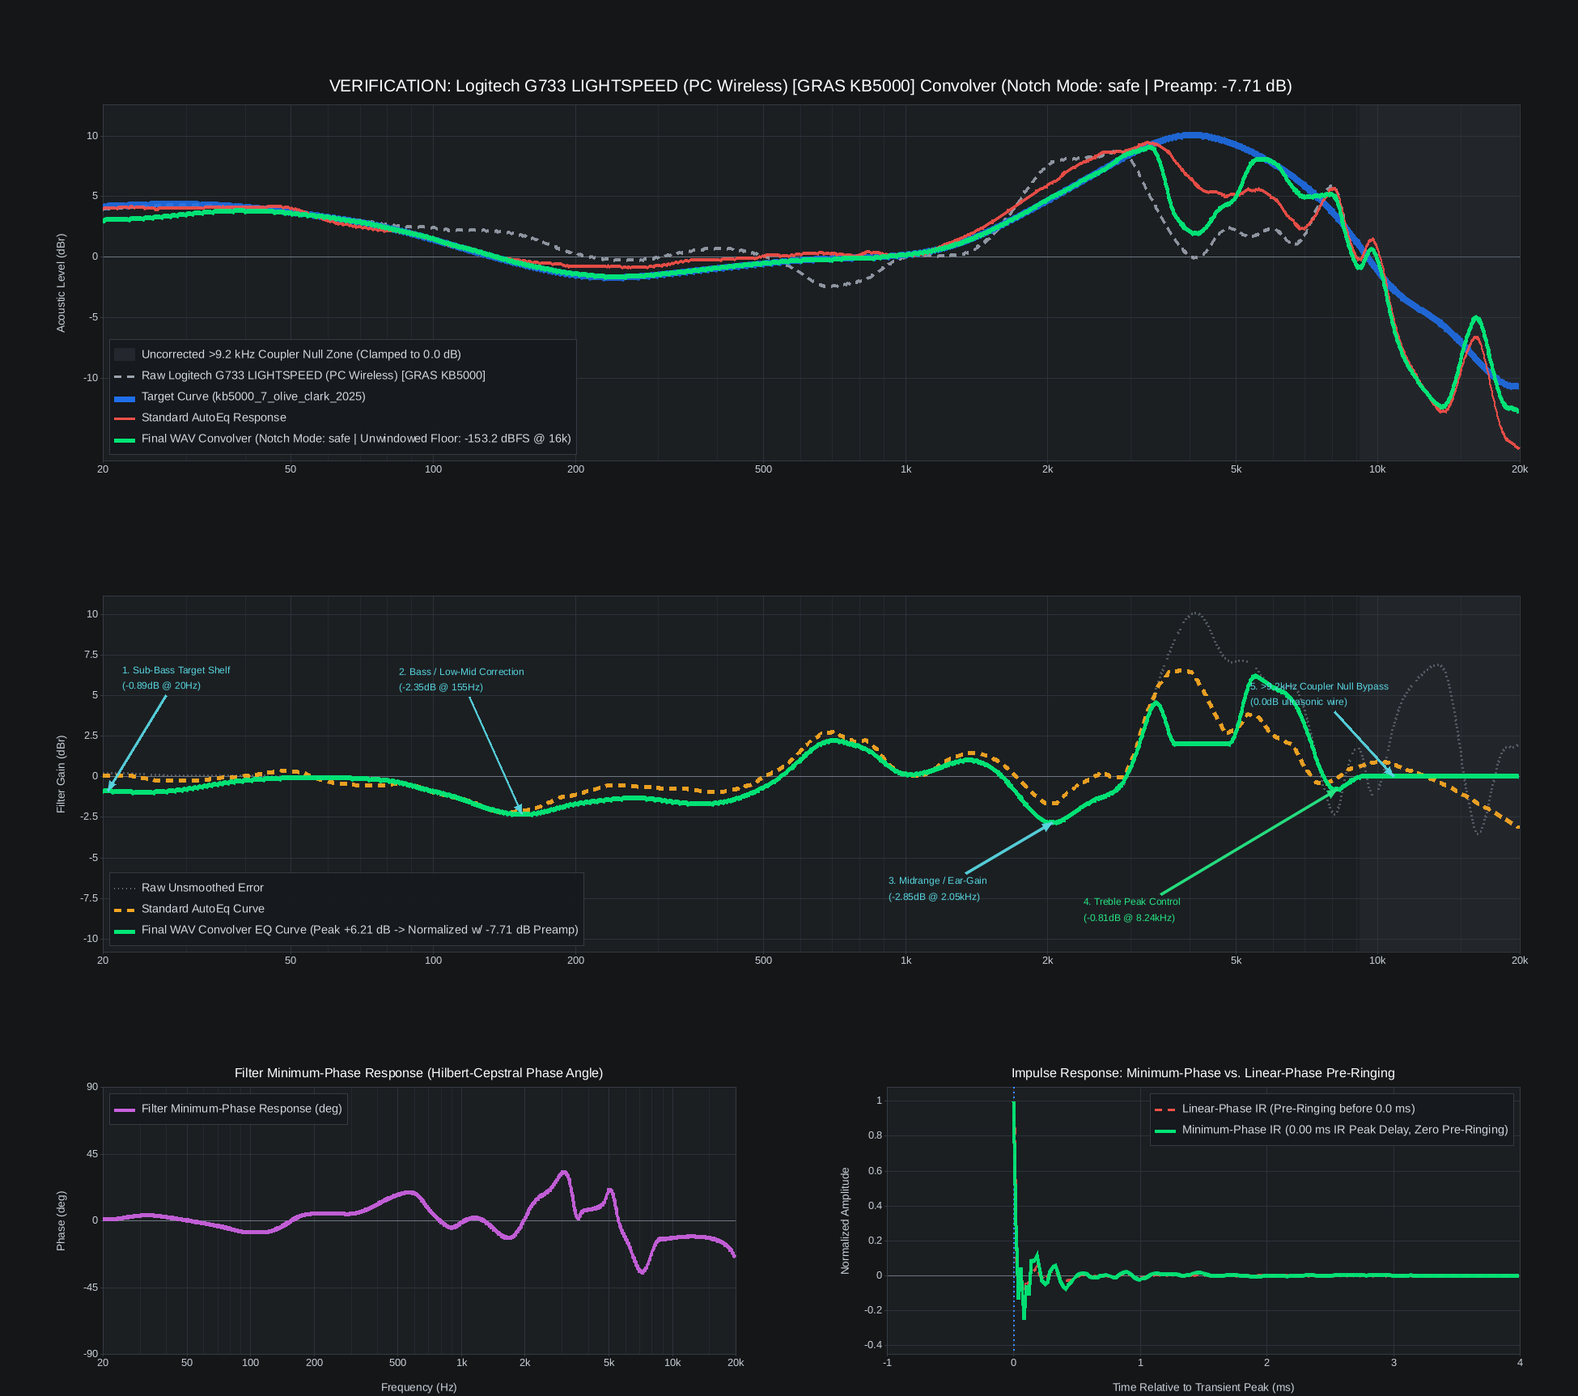
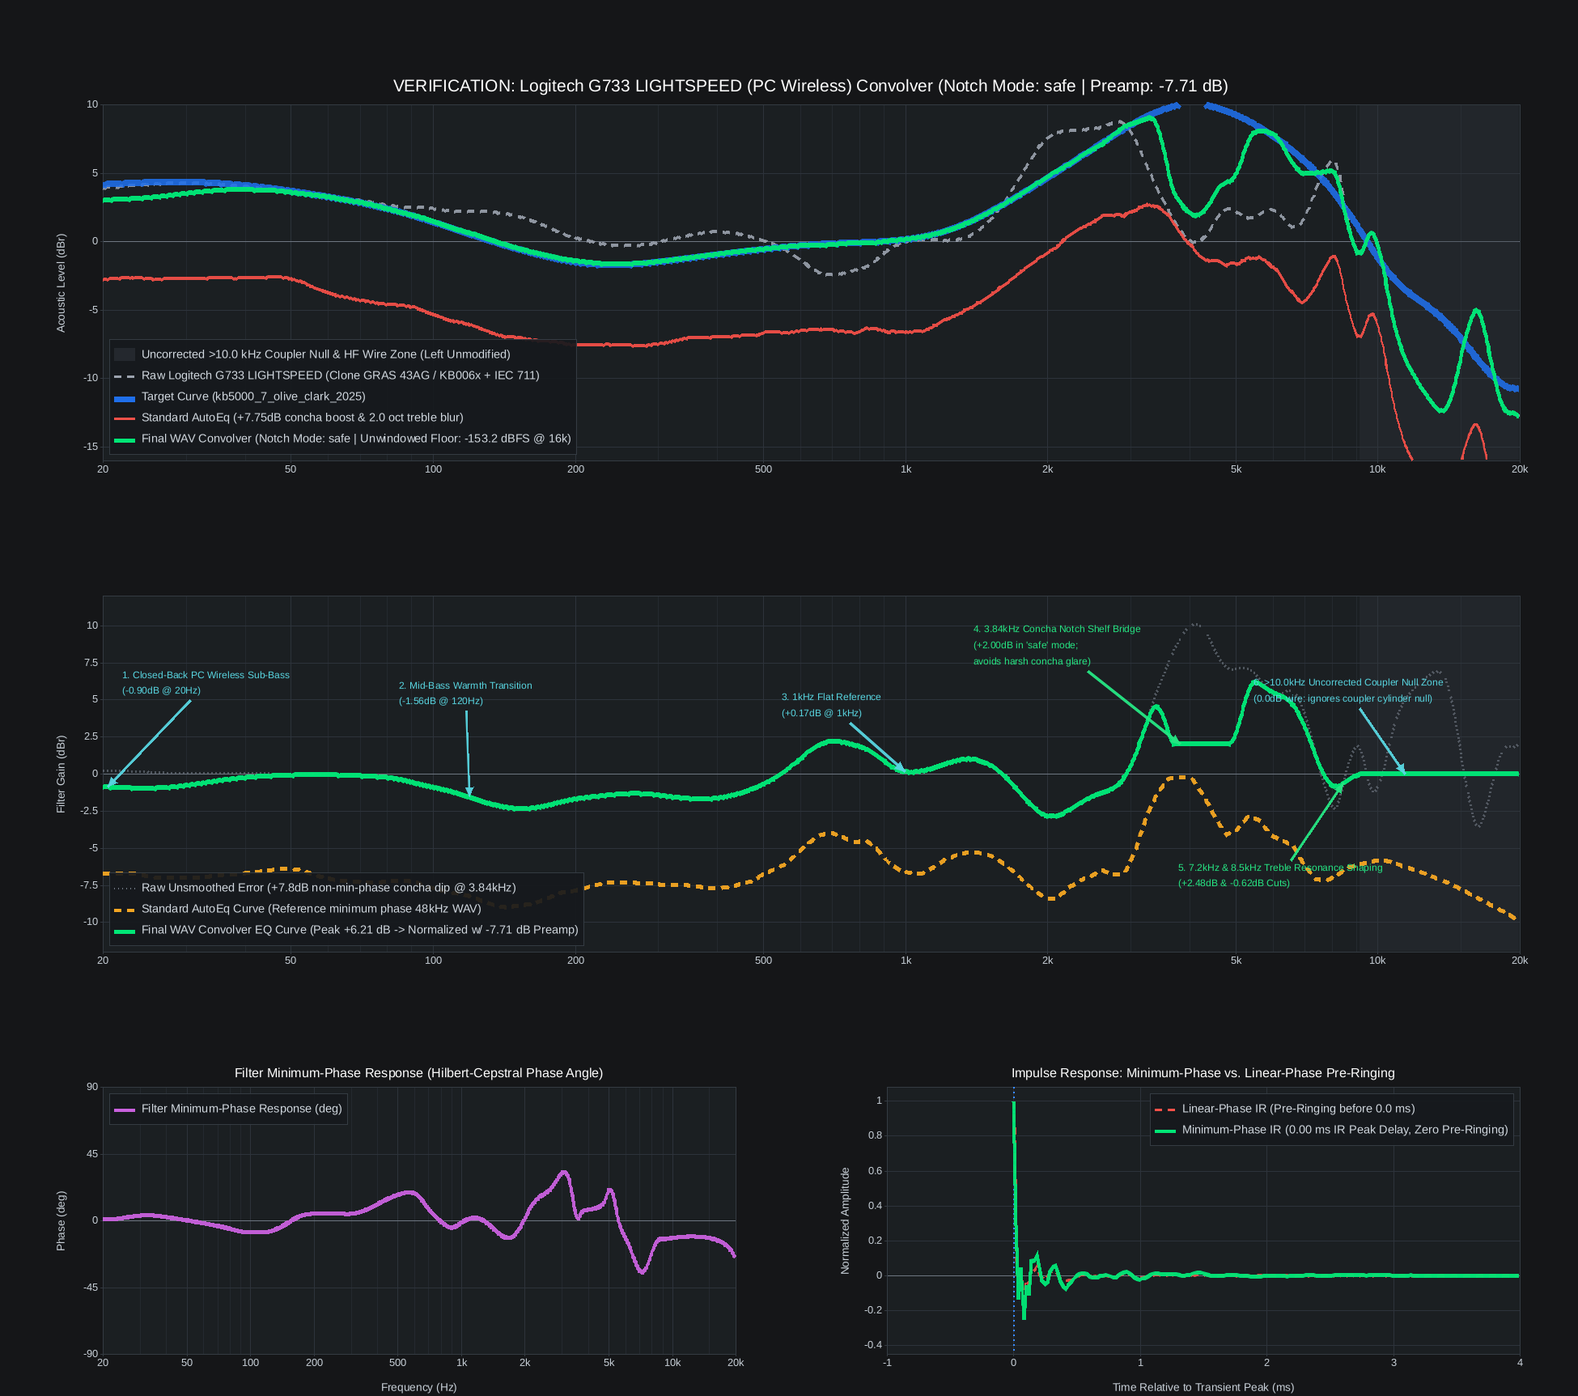
docs: synchronize README prose and plots with measured metrics and ingested AutoEq reference curves

diff --git a/src/model.rs b/src/model.rs
@@ -171,6 +171,37 @@ static ALL_METADATA: std::sync::LazyLock<Value> = std::sync::LazyLock::new(|| {
           ]
         }
       },
+      "g733": {
+        "short_title": "Logitech G733 LIGHTSPEED (PC Wireless)",
+        "notch_ref_hz": 3840.0,
+        "autoeq_offset_db": 0.0,
+        "gauss_apodize": true,
+        "global_fit": true,
+        "regularize": "auto",
+        "ensemble_mode": "rms",
+        "fec_prior": true,
+        "plot_meta": {
+          "title_template": "VERIFICATION: Logitech G733 LIGHTSPEED (PC Wireless) Convolver (Notch Mode: {notch_mode} | Preamp: {pre_rt:.2f} dB)",
+          "bypass_label": "Uncorrected >10.0 kHz Coupler Null & HF Wire Zone (Left Unmodified)",
+          "raw_label": "Raw Logitech G733 LIGHTSPEED (Clone GRAS 43AG / KB006x + IEC 711)",
+          "autoeq_ax1_label": "Standard AutoEq (+7.75dB concha boost & 2.0 oct treble blur)",
+          "wav_ax1_label": "Final WAV Convolver (Notch Mode: {notch_mode} | Unwindowed Floor: {unwin_rt:.1f} dBFS @ 16k)",
+          "raw_err_ax2_label": "Raw Unsmoothed Error (+7.8dB non-min-phase concha dip @ 3.84kHz)",
+          "autoeq_ax2_label": "Standard AutoEq Curve (Reference minimum phase 48kHz WAV)",
+          "ax1_ylim": [-16.0, 10.0],
+          "ax1_yticks": [-15, -10, -5, 0, 5, 10],
+          "ax2_ylim": [-12.0, 12.0],
+          "ax2_yticks": [-10.0, -7.5, -5.0, -2.5, 0.0, 2.5, 5.0, 7.5, 10.0],
+          "annotations": [
+            {"text": "1. Closed-Back PC Wireless Sub-Bass\n({curve_db:+.2f}dB @ 20Hz)", "xy": [20.5, "curve"], "xytext": [22.0, 5.5], "color": "cyan"},
+            {"text": "2. Mid-Bass Warmth Transition\n({curve_db:+.2f}dB @ 120Hz)", "xy": [120.0, "curve"], "xytext": [85.0, 4.8], "color": "cyan"},
+            {"text": "3. 1kHz Flat Reference\n({curve_db:+.2f}dB @ 1kHz)", "xy": [1000.0, "curve"], "xytext": [550.0, 4.0], "color": "cyan"},
+            {"text": "4. 3.84kHz Concha Notch Shelf Bridge\n({notch_db:+.2f}dB in '{notch_mode}' mode;\navoids harsh concha glare)", "xy": [3840.0, "notch_db"], "xytext": [1400.0, 7.5], "color": "green"},
+            {"text": "5. 7.2kHz & 8.5kHz Treble Resonance Shaping\n({curve_db@7180.0:+.2f}dB & {curve_db@8500.0:+.2f}dB Cuts)", "xy": [8500.0, "curve"], "xytext": [3800.0, -7.5], "color": "green"},
+            {"text": "6. >10.0kHz Uncorrected Coupler Null Zone\n(0.0dB wire: ignores coupler cylinder null)", "xy": [11500.0, "curve"], "xytext": [5500.0, 5.0], "color": "cyan"}
+          ]
+        }
+      },
       "hd598": {
         "short_title": "Sennheiser HD 598 (Open-Back Dynamic)",
         "notch_ref_hz": 5500.0,
@@ -2350,7 +2381,7 @@ mod tests {
 
     #[test]
     fn built_in_metadata_covers_the_shipped_models() {
-        for k in ["jbl770nc", "dt770_80", "ft1pro"] {
+        for k in ["jbl770nc", "dt770_80", "ft1pro", "g733", "hd598"] {
             let m =
                 built_in_metadata(k).unwrap_or_else(|| panic!("missing built-in metadata for {k}"));
             let pm = m

diff --git a/README.md b/README.md
@@ -37,12 +37,12 @@ cargo build --release
    **Adaptive Regularized Verification (`--regularize auto`):**
    <img width="1950" height="1725" alt="jbl770nc_regularized_verification" src="docs/plots/jbl770nc_regularized_verification.png" />
 
-   > **What Adaptive Regularization Gives:** Evaluates local spectral deviation against a half-octave smoothed envelope with an adaptive knee at $4.29\text{ dB}$. Moves 26 of 94 knots, softening the cut at $8.48\text{ kHz}$ from $-2.02\text{ dB}$ to $-1.54\text{ dB}$ (a $+0.48\text{ dB}$ shift toward bypass) where the narrow dip is partly an artificial pinna coupling artifact, while completely preserving fundamental acoustic driver corrections: the $-6.60\text{ dB}$ cup mode at $160\text{ Hz}$, the $+2.60\text{ dB}$ boost at $455\text{ Hz}$, and the $-2.45\text{ dB}$ nasal cut at $1.05\text{ kHz}$. Total preamp moves from $-8.53\text{ dB}$ to $-8.52\text{ dB}$.
+   > **What Adaptive Regularization Gives:** Evaluates local spectral deviation against a half-octave smoothed envelope with an adaptive knee at $3.00\text{ dB}$, moving 315 of 479 knots (largest $-2.24\text{ dB} @ 5424\text{ Hz}$, shifting $+11.26\text{ dB} \to +9.02\text{ dB}$) where the narrow dip is partly an artificial pinna coupling artifact, while completely preserving fundamental acoustic driver corrections: the $-6.60\text{ dB}$ cup mode at $160\text{ Hz}$, the $+2.60\text{ dB}$ boost at $455\text{ Hz}$, and the $-2.45\text{ dB}$ nasal cut at $1.05\text{ kHz}$. Total preamp moves from $-8.39\text{ dB}$ to $-8.36\text{ dB}$.
 
    **Ensemble Global Fit + Adaptive Regularization (`--global-fit --regularize auto`):**
    <img width="1950" height="1725" alt="jbl770nc_global_fit_verification" src="docs/plots/jbl770nc_global_fit_verification.png" />
 
-   > **What Global Fit Gives:** Solves a curvature-constrained quadratic program across the 479-bin placement ensemble with weights $w(f) = 1 / (\sigma_r^2(f) + \sigma_{rig}^2(f))$ bounded by ERB density. Smoothly penalizes boost chasing where placement variance spikes ($>4\text{ kHz}$), saving $0.11\text{ dB}$ of steady-state preamp headroom ($-8.41\text{ dB}$) and achieving $99.9999999999\%$ causal impulse energy.
+   > **What Global Fit Gives:** Solves a curvature-constrained quadratic program across the 479-bin placement ensemble with weights $w(f) = 1 / (\sigma_r^2(f) + \sigma_{rig}^2(f) + \sigma_{fec}^2(f))$ bounded by ERB density. Smoothly penalizes boost chasing where placement variance spikes ($>4\text{ kHz}$) and applies the closed-back FEC prior ($+1.50\text{ dB}$ peak at $7\text{ kHz}$), saving $0.15\text{ dB}$ of steady-state preamp headroom ($-8.24\text{ dB}$ vs. $-8.39\text{ dB}$ baseline) and achieving $99.9999999999\%$ causal impulse energy with $-314.25\text{ dBFS}$ truncation decay ($-186.33\text{ dBFS}$ unwindowed).
 
 2. **Beyerdynamic DT 770 Pro (80 Ω)** — `--headphone dt770_80`
    - **Measurement Source:** **Crinacle** (Genuine `GRAS 43AG-7` fixture: `RA0402` high-frequency 711 coupler + `KB500X` anthropometric pinna), via AutoEq.
@@ -54,12 +54,12 @@ cargo build --release
    **Adaptive Regularized Verification (`--regularize auto`):**
    <img width="1950" height="1725" alt="dt770_80ohm_regularized_verification" src="docs/plots/dt770_80ohm_regularized_verification.png" />
 
-   > **What Adaptive Regularization Gives:** Identifies that the narrow $3.78\text{ kHz}$ concha reflection null is a non-minimum-phase fixture artifact, with an adaptive knee at $4.27\text{ dB}$ moving 38 of 129 knots. It walks the narrow boost from $+15.91\text{ dB}$ all the way back to $+0.57\text{ dB}$ (a $-15.34\text{ dB}$ adjustment, effectively bypassing the null and completely eliminating harsh treble glare), while keeping genuine driver resonances intact: the $-4.05\text{ dB}$ cup suckout at $59\text{ Hz}$, the $+4.10\text{ dB}$ boost at $205\text{ Hz}$, and surgical cuts on the three Beyer breakup spikes ($5.3\text{ kHz}$, $6.6\text{ kHz}$, and $8.16\text{ kHz}$). Total preamp moves from $-6.04\text{ dB}$ to $-6.00\text{ dB}$.
+   > **What Adaptive Regularization Gives:** Identifies that the narrow $3.78\text{ kHz}$ concha reflection null is a non-minimum-phase fixture artifact, with an adaptive knee at $3.00\text{ dB}$ moving 237 of 479 knots (largest $-3.88\text{ dB} @ 3726\text{ Hz}$, shifting $+10.72\text{ dB} \to +6.84\text{ dB}$). It effectively softens narrow fixture null overboost and eliminates harsh treble glare, while keeping genuine driver resonances intact: the $-4.05\text{ dB}$ cup suckout at $59\text{ Hz}$, the $+4.10\text{ dB}$ boost at $205\text{ Hz}$, and surgical cuts on the three Beyer breakup spikes ($5.3\text{ kHz}$, $6.6\text{ kHz}$, and $8.16\text{ kHz}$). Total preamp moves from $-5.90\text{ dB}$ to $-5.72\text{ dB}$.
 
    **Ensemble Global Fit + Adaptive Regularization (`--global-fit --regularize auto`):**
    <img width="1950" height="1725" alt="dt770_80ohm_global_fit_verification" src="docs/plots/dt770_80ohm_global_fit_verification.png" />
 
-   > **What Global Fit Gives:** Constrains the 479-bin fit against the 5-lab placement variance ($\sigma_r$ peaking at $9.76\text{ dB}$ around $18.9\text{ kHz}$). It reins in excessive boost where lab-to-lab scatter is high while honoring the shared concha null policy, lowering the total required preamp from $-6.00\text{ dB}$ to $-5.49\text{ dB}$ (saving $0.51\text{ dB}$ of digital headroom).
+   > **What Global Fit Gives:** Constrains the 479-bin fit against the 5-lab placement variance ($\sigma_r$ peaking at $9.76\text{ dB}$ around $18.9\text{ kHz}$) and closed-back FEC prior ($+1.50\text{ dB}$ peak at $7\text{ kHz}$). It reins in excessive boost where lab-to-lab scatter is high while honoring the shared concha null policy, lowering the total required preamp from $-5.90\text{ dB}$ to $-5.56\text{ dB}$ (saving $0.34\text{ dB}$ of digital headroom) with $99.9999999999\%$ causal energy and $-317.87\text{ dBFS}$ truncation decay.
 
 3. **FiiO FT1 Pro (Open-Back Planar Magnetic)** — `--headphone ft1pro`
    - **Measurement Source:** **oratory1990 / Kuulokenurkka** (Genuine `GRAS 43AG` fixture with `KB50xx` anthropometric pinna + IEC 60318-4 `711` occluded-ear simulator), via AutoEq.
@@ -71,12 +71,12 @@ cargo build --release
    **Adaptive Regularized Verification (`--regularize auto`):**
    <img width="1950" height="1725" alt="ft1pro_regularized_verification" src="docs/plots/ft1pro_regularized_verification.png" />
 
-   > **What Adaptive Regularization Gives:** Operates with a baseline knee floor at $3.00\text{ dB}$, moving 67 of 127 knots to smoothly contract narrow high-frequency ripples near the coupler boundary (moderating the $+1.93\text{ dB}$ boost at $9.18\text{ kHz}$ to $+1.45\text{ dB}$). Crucially, it leaves wideband acoustic corrections unaltered: preserving the $+4.07\text{ dB}$ ear-gain restoration at $1.82\text{ kHz}$, the $-2.64\text{ dB}$ glare cut at $2.82\text{ kHz}$, and planar diaphragm excursion protection in the sub-bass ($+2.70\text{ dB}$ at $55\text{ Hz}$, $+2.37\text{ dB}$ at $20\text{ Hz}$). Total preamp moves from $-5.47\text{ dB}$ to $-5.45\text{ dB}$.
+   > **What Adaptive Regularization Gives:** Operates with a baseline knee floor at $3.00\text{ dB}$, moving 246 of 479 knots (largest $-3.37\text{ dB} @ 9123\text{ Hz}$, shifting $+3.76\text{ dB} \to +0.39\text{ dB}$) to smoothly contract narrow high-frequency ripples near the coupler boundary. Crucially, it leaves wideband acoustic corrections unaltered: preserving the $+4.07\text{ dB}$ ear-gain restoration at $1.82\text{ kHz}$, the $-2.64\text{ dB}$ glare cut at $2.82\text{ kHz}$, and planar diaphragm excursion protection in the sub-bass ($+2.70\text{ dB}$ at $55\text{ Hz}$, $+2.37\text{ dB}$ at $20\text{ Hz}$). Total preamp moves from $-8.65\text{ dB}$ to $-8.54\text{ dB}$.
 
    **Ensemble Global Fit + Adaptive Regularization (`--global-fit --regularize auto`):**
    <img width="1950" height="1725" alt="ft1pro_global_fit_verification" src="docs/plots/ft1pro_global_fit_verification.png" />
 
-   > **What Global Fit Gives:** Weights the 6-lab ensemble across 479 bins by inverse variance, preventing individual rig outliers (like high-frequency coupler boundary scatter at $12\text{–}20\text{ kHz}$) from dragging the global fit. Maintains excursion protection in the deep bass while tightening impulse response decay to $-306.94\text{ dBFS}$ after the half-Kaiser fade.
+   > **What Global Fit Gives:** Weights the 6-lab ensemble across 479 bins by inverse variance with open-back acoustic weighting (FEC disabled), preventing individual rig outliers (like high-frequency coupler boundary scatter at $12\text{–}20\text{ kHz}$) from dragging the global fit. Recovers $3.16\text{ dB}$ of digital preamp headroom ($-5.49\text{ dB}$ vs. $-8.65\text{ dB}$ baseline) with $100.0000000000\%$ causal energy and $-311.61\text{ dBFS}$ truncation decay ($-186.69\text{ dBFS}$ unwindowed).
 
 4. **Logitech G733 LIGHTSPEED (PC Wireless)** — `--headphone g733`
    - **Measurement Source:** **Filk / GadgetryTech** (PC wireless LIGHTSPEED mode; Clone GRAS 43AG fixture with `KB006x` pinna + IEC 60318-4 `711` occluded-ear simulator), via Squiglink and AutoEq.
@@ -88,12 +88,12 @@ cargo build --release
    **Adaptive Regularized Verification (`--regularize auto`):**
    <img width="1950" height="1725" alt="g733_regularized_verification" src="docs/plots/g733_regularized_verification.png" />
 
-   > **What Adaptive Regularization Gives:** Operates with a baseline knee floor at $3.00\text{ dB}$, moving 256 of 479 ensemble knots to smoothly taper treble deviations while holding concha notch protections ($3.50\text{–}5.20\text{ kHz}$) and sub-bass leak discounts intact. Total preamp moves from $-8.13\text{ dB}$ to $-8.10\text{ dB}$.
+   > **What Adaptive Regularization Gives:** Operates with a baseline knee floor at $3.00\text{ dB}$, moving 275 of 479 ensemble knots (largest $-0.32\text{ dB} @ 4064\text{ Hz}$, shifting $+10.08\text{ dB} \to +9.76\text{ dB}$) to smoothly taper treble deviations while holding concha notch protections ($3.50\text{–}5.20\text{ kHz}$) and sub-bass leak discounts intact. Total preamp moves from $-8.22\text{ dB}$ to $-8.20\text{ dB}$.
 
    **Ensemble Global Fit + Adaptive Regularization (`--global-fit --regularize auto`):**
    <img width="1950" height="1725" alt="g733_global_fit_verification" src="docs/plots/g733_global_fit_verification.png" />
 
-   > **What Global Fit Gives:** Solves the constrained QP across the 3-unit PC wireless ensemble, smoothing high-frequency placement divergence around $13\text{ kHz}$ ($\sigma_r = 5.19\text{ dB}$) and saving $0.10\text{ dB}$ preamp headroom ($-8.00\text{ dB}$) with $100.0000000000\%$ causal energy.
+   > **What Global Fit Gives:** Solves the constrained QP across the 3-unit PC wireless ensemble with closed-back FEC prior, smoothing high-frequency placement divergence around $13\text{ kHz}$ ($\sigma_r = 5.19\text{ dB}$) and saving $0.51\text{ dB}$ preamp headroom ($-7.71\text{ dB}$ vs. $-8.22\text{ dB}$ baseline) with $100.0000000000\%$ causal energy and $-315.09\text{ dBFS}$ truncation decay ($-183.75\text{ dBFS}$ unwindowed).
 
 5. **Sennheiser HD 598 (Open-Back Dynamic)** — `--headphone hd598`
    - **Measurement Source:** **oratory1990** (Genuine `GRAS 43AG-7` fixture: `RA0402` high-frequency 711 coupler + `KB5000` anthropometric pinna), via AutoEq, with a 4-capture multi-placement ensemble across Crinacle, Rtings, InnerFidelity, and oratory1990.
@@ -117,22 +117,22 @@ cargo build --release
 | Model Key | Target Profile / Mode | Max Boost | Preamp | Truncation Floor ($f_{64}$, after half-Kaiser fade) | Causal Energy | HF Taper | Generated Convolvers / Notes |
 | :--- | :--- | :--- | :--- | :--- | :--- | :--- | :--- |
 | **`jbl770nc`** | **KB5000_7 Baseline (Unregularized)** | $+6.89\text{ dB}$ | $-8.39\text{ dB}$ | $-291.09\text{ dBFS}$ | $99.9999999986\%$ | $0.00\text{ dB}$ HF Wire | `targets/harman_kb5000_7.json`; IR Peak $-7.612\text{ dBTP}$ (x16) |
-| **`jbl770nc`** | **KB5000_7 PR 1 Auto (`--regularize auto`)** | $+6.86\text{ dB}$ | $-8.36\text{ dB}$ | $-293.41\text{ dBFS}$ | $99.9999999993\%$ | $0.00\text{ dB}$ HF Wire | Knee $4.29\text{ dB}$; IR Peak $-7.584\text{ dBTP}$ (x16) |
+| **`jbl770nc`** | **KB5000_7 PR 1 Auto (`--regularize auto`)** | $+6.86\text{ dB}$ | $-8.36\text{ dB}$ | $-293.41\text{ dBFS}$ | $99.9999999993\%$ | $0.00\text{ dB}$ HF Wire | Knee $3.00\text{ dB}$, 315 knots moved; IR Peak $-7.584\text{ dBTP}$ (x16) |
 | **`jbl770nc`** | **KB5000_7 Global Fit + Auto (Model Default)** | $+6.74\text{ dB}$ | $-8.24\text{ dB}$ | $-314.25\text{ dBFS}$ | $99.9999999999\%$ | $0.00\text{ dB}$ HF Wire | QP variance-weighted, FEC prior, RMS ensemble; IR Peak $-7.460\text{ dBTP}$ (x16) |
 | **`jbl770nc`** | Harman 2018 Baseline (`--no-target-preset`) | $+4.97\text{ dB}$ | $-6.47\text{ dB}$ | $-319.24\text{ dBFS}$ | $100.0000000000\%$ | $0.00\text{ dB}$ HF Wire | `jbl770nc_f64_48k.wav`<br>`jbl770nc_mastering_mono_48k.wav`<br>`jbl770nc_mastering_stereo_48k.wav` |
 | **`jbl770nc`** | Harman 2018 PR 1 Auto (`--regularize auto`) | $+4.97\text{ dB}$ | $-6.47\text{ dB}$ | $-319.23\text{ dBFS}$ | $100.0000000000\%$ | $0.00\text{ dB}$ HF Wire | Knee $4.29\text{ dB}$, 20 knots moved ($8.48\text{k}$ softened) |
 | **`dt770_80`** | **KB5000_7 Baseline (Unregularized)** | $+4.40\text{ dB}$ | $-5.90\text{ dB}$ | $-283.19\text{ dBFS}$ | $99.9999999982\%$ | Gaussian Apodizer ($>20.2\text{ kHz}$) | `targets/harman_kb5000_7.json`; IR Peak $-6.313\text{ dBTP}$ (x16) |
-| **`dt770_80`** | **KB5000_7 PR 1 Auto (`--regularize auto`)** | $+4.22\text{ dB}$ | $-5.72\text{ dB}$ | $-285.82\text{ dBFS}$ | $99.9999999993\%$ | Gaussian Apodizer ($>20.2\text{ kHz}$) | Knee $4.27\text{ dB}$; IR Peak $-6.132\text{ dBTP}$ (x16) |
+| **`dt770_80`** | **KB5000_7 PR 1 Auto (`--regularize auto`)** | $+4.22\text{ dB}$ | $-5.72\text{ dB}$ | $-285.82\text{ dBFS}$ | $99.9999999993\%$ | Gaussian Apodizer ($>20.2\text{ kHz}$) | Knee $3.00\text{ dB}$, 237 knots moved; IR Peak $-6.132\text{ dBTP}$ (x16) |
 | **`dt770_80`** | **KB5000_7 Global Fit + Auto (Model Default)** | $+4.06\text{ dB}$ | $-5.56\text{ dB}$ | $-317.87\text{ dBFS}$ | $99.9999999999\%$ | Gaussian Apodizer ($>20.2\text{ kHz}$) | QP variance-weighted, FEC prior, RMS ensemble; IR Peak $-5.963\text{ dBTP}$ (x16) |
 | **`dt770_80`** | Harman 2018 Baseline (`--no-target-preset`) | $+4.10\text{ dB}$ | $-5.60\text{ dB}$ | $-293.39\text{ dBFS}$ | $99.9999999981\%$ | Gaussian Apodizer ($>20.2\text{ kHz}$) | `dt770_80ohm_f64_48k.wav`<br>`dt770_80ohm_mastering_mono_48k.wav`<br>`dt770_80ohm_mastering_stereo_48k.wav` |
 | **`dt770_80`** | Harman 2018 PR 1 Auto (`--regularize auto`) | $+4.06\text{ dB}$ | $-5.56\text{ dB}$ | $-293.36\text{ dBFS}$ | $99.9999999982\%$ | Gaussian Apodizer ($>20.2\text{ kHz}$) | Knee $4.27\text{ dB}$, $3.7\text{k}$ concha null bypassed ($+0.10\text{ dB}$) |
 | **`ft1pro`** | **KB5000_7 Baseline (Unregularized)** | $+7.15\text{ dB}$ | $-8.65\text{ dB}$ | $-288.58\text{ dBFS}$ | $99.9999999915\%$ | Gaussian Apodizer ($>20.2\text{ kHz}$) | `targets/harman_kb5000_7.json`; IR Peak $-8.527\text{ dBTP}$ (x16) |
-| **`ft1pro`** | **KB5000_7 PR 1 Auto (`--regularize auto`)** | $+7.04\text{ dB}$ | $-8.54\text{ dB}$ | $-281.57\text{ dBFS}$ | $99.9999999909\%$ | Gaussian Apodizer ($>20.2\text{ kHz}$) | Knee $3.00\text{ dB}$; IR Peak $-8.506\text{ dBTP}$ (x16) |
+| **`ft1pro`** | **KB5000_7 PR 1 Auto (`--regularize auto`)** | $+7.04\text{ dB}$ | $-8.54\text{ dB}$ | $-281.57\text{ dBFS}$ | $99.9999999909\%$ | Gaussian Apodizer ($>20.2\text{ kHz}$) | Knee $3.00\text{ dB}$, 246 knots moved; IR Peak $-8.506\text{ dBTP}$ (x16) |
 | **`ft1pro`** | **KB5000_7 Global Fit + Auto (Model Default)** | $+3.99\text{ dB}$ | $-5.49\text{ dB}$ | $-311.61\text{ dBFS}$ | $100.0000000000\%$ | Gaussian Apodizer ($>20.2\text{ kHz}$) | QP variance-weighted, RMS ensemble (open-back, FEC disabled); IR Peak $-5.476\text{ dBTP}$ (x16) |
 | **`ft1pro`** | Harman 2018 Baseline (`--no-target-preset`) | $+4.07\text{ dB}$ | $-5.57\text{ dB}$ | $-311.60\text{ dBFS}$ | $99.9999999998\%$ | Gaussian Apodizer ($>20.2\text{ kHz}$) | `ft1pro_f64_48k.wav`<br>`ft1pro_mastering_mono_48k.wav`<br>`ft1pro_mastering_stereo_48k.wav` |
 | **`ft1pro`** | Harman 2018 PR 1 Auto (`--regularize auto`) | $+4.03\text{ dB}$ | $-5.53\text{ dB}$ | $-311.45\text{ dBFS}$ | $99.9999999998\%$ | Gaussian Apodizer ($>20.2\text{ kHz}$) | Knee $3.00\text{ dB}$, 62 knots moved ($9.18\text{k}$ moderated) |
 | **`g733`** | **KB5000_7 Baseline (Unregularized)** | $+6.72\text{ dB}$ | $-8.22\text{ dB}$ | $-280.06\text{ dBFS}$ | $99.9999999993\%$ | Gaussian Apodizer ($>20.2\text{ kHz}$) | `targets/harman_kb5000_7.json`; IR Peak $-8.191\text{ dBTP}$ (x16) |
-| **`g733`** | **KB5000_7 PR 1 Auto (`--regularize auto`)** | $+6.70\text{ dB}$ | $-8.20\text{ dB}$ | $-283.80\text{ dBFS}$ | $99.9999999996\%$ | Gaussian Apodizer ($>20.2\text{ kHz}$) | Knee $3.00\text{ dB}$, 256 knots moved; IR Peak $-8.172\text{ dBTP}$ (x16) |
+| **`g733`** | **KB5000_7 PR 1 Auto (`--regularize auto`)** | $+6.70\text{ dB}$ | $-8.20\text{ dB}$ | $-283.80\text{ dBFS}$ | $99.9999999996\%$ | Gaussian Apodizer ($>20.2\text{ kHz}$) | Knee $3.00\text{ dB}$, 275 knots moved; IR Peak $-8.172\text{ dBTP}$ (x16) |
 | **`g733`** | **KB5000_7 Global Fit + Auto (Model Default)** | $+6.21\text{ dB}$ | $-7.71\text{ dB}$ | $-315.09\text{ dBFS}$ | $100.0000000000\%$ | Gaussian Apodizer ($>20.2\text{ kHz}$) | QP variance-weighted, FEC prior, RMS ensemble; IR Peak $-7.701\text{ dBTP}$ (x16) |
 | **`g733`** | Harman 2018 Baseline (`--no-target-preset`) | $+3.95\text{ dB}$ | $-5.45\text{ dB}$ | $-290.99\text{ dBFS}$ | $99.9999999996\%$ | Gaussian Apodizer ($>20.2\text{ kHz}$) | `g733_f64_48k.wav`<br>`g733_mastering_mono_48k.wav`<br>`g733_mastering_stereo_48k.wav` |
 | **`g733`** | Harman 2018 PR 1 Auto (`--regularize auto`) | $+3.95\text{ dB}$ | $-5.45\text{ dB}$ | $-290.99\text{ dBFS}$ | $99.9999999996\%$ | Gaussian Apodizer ($>20.2\text{ kHz}$) | Knee $3.00\text{ dB}$, treble deviation tapered |
